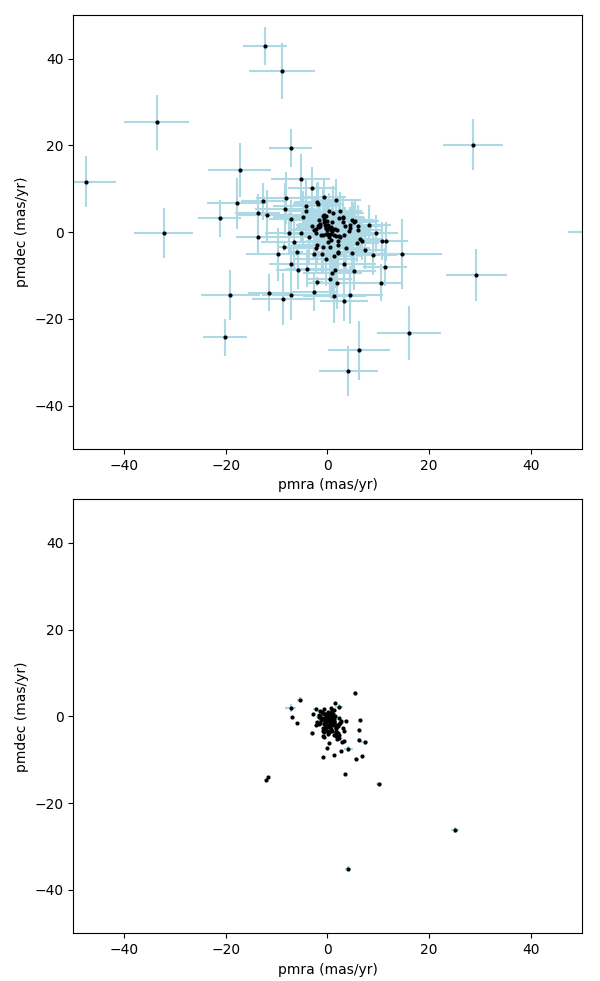
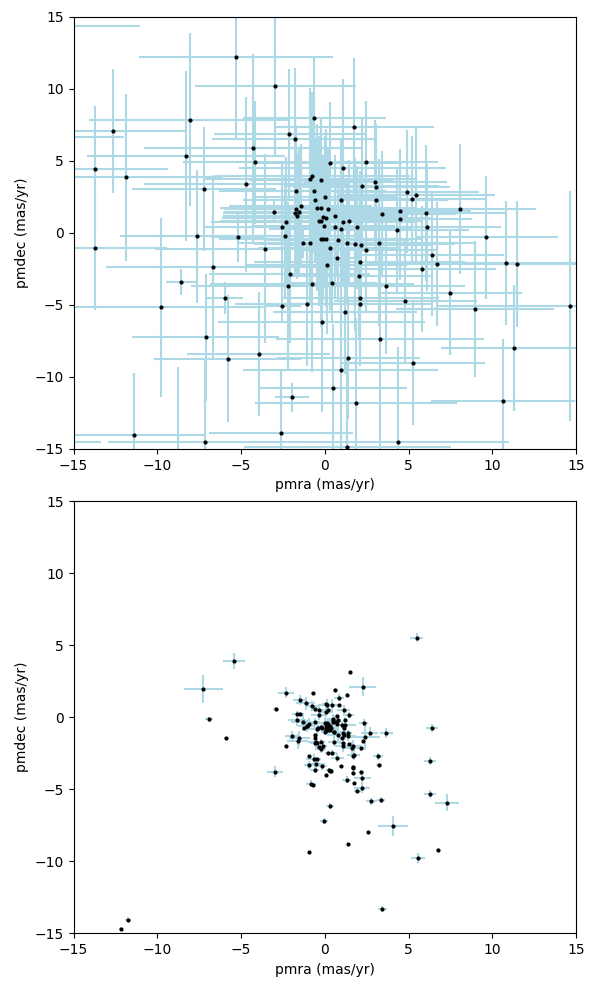
Corrections

diff --git a/article.tex b/article.tex
@@ -36,18 +36,19 @@ Over 1200 open clusters have been identified within the Milky Way, but it is tho
 With the new release of data from Gaia, we can study open clusters with more precision than ever before. This data includes positions in the sky, proper motions, parallaxes, and magnitudes in three different photometric filters for over 1 billion stars.
 
 Using the data from the UCAC4 catalogue, Sampedro et al. reported the existence of 1876 open clusters, using three different membership methods \cite{sampedro}. With the release of the Gaia DR2 catalogue, which contains more precise astrometric data, it is now possible to find and verify the existence of clusters more accurately.
-There have already been attempts to identify open clusters using the Gaia DR2 catalogue, for instance, in the study of Cantat-Gaudin et al., 1269 clusters were identified with the new data \cite{cantat-gaudin}. Our first goal will be to crossmatch the data from both studies to find the clusters that haven't already been verified.
+There have already been attempts to identify open clusters using the Gaia DR2 catalogue, for instance, in the study of Cantat-Gaudin et al., 1229 clusters were identified with the new data \cite{cantat-gaudin}.
 
+As a first step, we will crossmatch the data from both studies to find the clusters that haven't already been verified. We will then use Gaia's data to find some cases from the list which are clearly clusters. Finally, we will estimate the age and total interstellar extinction of these clusters.
 
 \section{The Gaia DR2 catalogue}
-The second release of data from Gaia, in the form of the Gaia DR2 catalogue, introduces high-precision measurements of various astrometry parameters, like proper motions and parallaxes, as well as photometric information for a total of $1 692 919 135$ sources \cite{gaiadr2}. The catalogue contains a 5-parameter astrometric solution for over 1.3 billion stars, which include the position in the sky given by the right ascension and declination, the proper motion and the parallax. For the rest of the stars, which are the very faint ones ($G > 21$), a 2-parameter astrometric solution is given instead, with only the positions in the sky.
+The second release of data from Gaia, in the form of the Gaia DR2 catalogue, introduces high-precision measurements of various astrometry parameters, like proper motions and parallaxes, as well as photometric information for about 1.7 billion sources \cite{gaiadr2}. The catalogue contains a 5-parameter astrometric solution for over 1.3 billion stars, which include the position in the sky given by the right ascension and declination, the proper motion and the parallax. For the rest of the stars, which are the very faint ones ($G > 21$), a 2-parameter astrometric solution is given instead, with only the positions in the sky.
 
 For bright stars ($G < 15$) the uncertainty in the positions and parallax is about $0.02-0.04\ \si{mas}$, and the uncertainty in the proper motions is about $0.07\ \si{mas.yr^{-1}}$. We will only be working with stars of at most $G = 17$, for which the uncertainty in the positions and parallax is of $0.1\ \si{mas}$ and of $0.2\ \si{mas.yr^{-1}}$ in the proper motions. Figure \ref{ppmxl_vs_gaiadr2} illustrates the improvement in precision of the astrometric parameters, by comparing the proper motions of a well known cluster with the data from the PPMXL catalogue \cite{ppmxl} and Gaia DR2.
 
 \begin{figure}[h!]
 \centering
 \includegraphics[scale=0.45]{ppmxl_vs_gaia_motions}
-\caption{Comparison of the data from PPMXL and Gaia DR2 for the proper motions of the cluster Ivanov 2 \cite{ivanov}.}
+\caption{Comparison of the data from PPMXL and Gaia DR2 for the proper motions of the cluster Ivanov 2 \cite{ivanov}. We can see that the proper motions also look more compact with Gaia's data, confirming that it is in fact an open cluster.}
 \label{ppmxl_vs_gaiadr2}
 \end{figure}
 
@@ -55,9 +56,9 @@ The catalogue also lists valuable information on the photometry of most of its s
 
 \section{Identifying open clusters}
 
-As a first measure to reduce the number of clusters that need to be verified, we will only check the clusters whose name is not present in the data from both studies. By applying said filter, we end up with a list of 890 clusters, slightly more than expected, due mainly to naming inconsistencies and possibly to one study having found some clusters that the other has not.
+As a first measure to reduce the number of clusters that need to be verified, we will only check the clusters whose name is not present in the data from both studies. By applying said filter, we end up with a list of 890 clusters, which more than the 647 we expected, due mainly to naming inconsistencies and possibly to one study having found some clusters that the other has not. However, our main focus will be the 647 clusters that Sampedro found with the less precise data from UCAC4.
 
-For each of these 890 clusters, we compute the mean right ascension $\alpha$ and declination $\delta$, which we will use as the center point of a circle with radius $\dfrac{\max(D) - \min(D)}{2}$ where $D$ is the set of declinations for all the stars of each cluster. Then, we query the data from the Gaia DR2 catalogue for the region encompassed by this circle. We get stars with a magnitude $G < 17$, since the data from the UCAC4 catalogue does not show stars fainter than $G = 17$. This gives us the data for all the stars in the queried region, so we crossmatch this data with the data from the original study to leave only the stars that are listed in Sampedro's study as being part of the cluster. To filter out the repeated cases due to naming inconsistencies, the center positions of the already verified clusters are also added in the position plots.
+For each of these 890 clusters, we compute the mean right ascension $\alpha$ and declination $\delta$, which we will use as the center point of a circle with radius $\dfrac{\max(\delta) - \min(\delta)}{2}$, where we consider the set of declinations of the stars in each cluster. Then, we query the data from the Gaia DR2 catalogue for the region encompassed by this circle. We get stars with a magnitude $G < 17$, since the data from the UCAC4 catalogue does not show stars fainter than $G = 17$. This gives us the data for all the stars in the queried region, so we crossmatch this data with the data from the original study to leave only the stars that are listed in Sampedro's study as being part of the cluster.
 
 \begin{figure*}
 \centering
@@ -66,12 +67,15 @@ For each of these 890 clusters, we compute the mean right ascension $\alpha$ and
 \label{crossmatched_data}
 \end{figure*}
 
-Figure \ref{crossmatched_data} shows one example of the plots that were made for each of the clusters, for one of the cases that are confirmed to be a cluster and that will be studied in the next section to determine its age and interstellar extinction. Note that, in this case, the proper motion space is pretty compact, and there is a clear straight line in the parallax versus magnitude plot, showing that the stars are moving together and are at the same distance. In the color-magnitude diagram, we can see that some stars have already left the main sequence. We will study this in more detail in the following section.
+Figure \ref{crossmatched_data} shows one example of the plots that were made for each of the clusters, for one of the cases that are confirmed to be a cluster and that will be studied in the next section. Note that, in this case, the proper motion space is pretty compact, showing that the stars are moving together, and there is a clear straight line in the parallax versus magnitude plot, showing that the stars are at the same distance. However, it is interesting to note that NGC 2126 does not look like a cluster when observed on the sky. In the color-magnitude diagram, we can see that some stars have already left the main sequence. We will study this in more detail in the following section.
 
 
-\section{Determining the age and interstellar extinction of the cluster}
-In this section we discuss the procedure followed to determine an approximation of the age and interstellar extinction of some clusters. We try this method for a total of 14 clusters, some of which are taken from the list of verified clusters in the study of Cantat-Gaudin, and the rest are cases from the study of Sampedro which we have verified in the previous section. The complete list of tested clusters can be found in Table \ref{tab:clusters}, along with some parameters.
-%TODO comment on the method used to get the members of the cluster
+To filter out the repeated cases due to name inconsistencies, the cluster positions from the study of Cantat-Gaudin were also added to the plots, so in the case of a repeated cluster, we would see it near the center in the position plot, which corresponds to the first plot as shown in Figure \ref{crossmatched_data}.
+
+After examining the plots for all 890 clusters, excluding repetitions, we found that only 14 of them were really compact in proper motion, leading us to believe that the rest of them probably are not actually clusters. These clusters are studied further in the next section.
+
+\section{Estimating the age and interstellar extinction of the cluster}
+In this section we discuss the procedure followed to estimate the age and interstellar extinction of some clusters. We applied this method to a total of 14 clusters, some of which are taken from the list of verified clusters in the study of Cantat-Gaudin, and the rest are cases from the study of Sampedro which we have verified in the previous section. The complete list of investigated clusters is given in Table \ref{tab:clusters}, along with some parameters. To obtain the list of probable members, the UPMASK classification method \cite{cantat-gaudin} was applied.
 Note that a lower parallax means a greater distance.
 
 \begin{table}[h!]
@@ -108,7 +112,7 @@ Ruprecth 8 & $(105.41, -13.56)$ & $0.4278$ & $138$ \\
 Stock 6 & $(35.93, 63.79)$ & $0.9536$ & $144$ \\
 \hline
 \end{tabular}
-\caption{List of clusters that have been studied, including their mean position (given in ($\alpha$, $\delta$)) and mean parallax, computed using the data from Gaia DR2, and the number of member stars of the cluster.} %TODO mention method name
+\caption{List of clusters that have been studied, including their mean position (given in ($\alpha$, $\delta$)) and mean parallax, computed using the data from Gaia DR2, and the number of member stars of the cluster.}
 \label{tab:clusters}
 \end{table}
 
@@ -138,9 +142,9 @@ Then, using this relation in the expression $m - M = -2.5 \log_{10} \left( \frac
 \end{equation}
 where $d$ is in parsecs. We can use equation \ref{distance-modulus} with the data from Gaia, since the relation between the parallax $p$ given in arcseconds and the distance $d$ given in parsecs is just $d = p^{-1}$.
 
-Given that the stars in an open cluster are relatively close together, we shift every star in the plot by the distance modulus of the mean parallax of the cluster. We chose this approach instead of using shifting each star by its individual distance modulus because for more distant stars the error in the parallax is higher, so there might be a lot of discrepancy between the parallaxes of some of the stars in the cluster and the CMD would be less clear. Another option would have been to treat the distance modulus as a third parameter to estimate via isochrone fitting, which would also avoid this problem but would make the process harder.
+Given that the stars in an open cluster are relatively close together, we shift every star in the plot by the distance modulus of the mean parallax of the cluster. We chose this approach instead of using shifting each star by its individual distance modulus because for more distant stars the error in the parallax is higher, so there might be a lot of discrepancy between the parallaxes of some of the stars in the cluster and the CMD would be less clear. Another option would have been to treat the distance modulus as a third free parameter to estimate via isochrone fitting, which would also avoid this problem but would make the process harder.
 
-An isochrone is the line that would be drawn in a CMD if we varied the mass of the star at a fixed age. Since the stars in an open cluster have the same age, we can find an isochrone that fits the CMD of the stars in the cluster to determine its age. The isochrones used are from PARSEC \cite{parsec}, with the photometric system from Gaia DR2, and including the interstellar extinction $A_V$ on a star-to-star basis \cite{girardi}. The metallicity value used for the isochrones is $Z = 0.0152$. An example of the result of fitting an isochrone to the cluster data can be seen in Figure \ref{nice-isochrone}.
+An isochrone is the line that would be drawn in a CMD if we varied the mass of the star at a fixed age. Since the stars in an open cluster have the same age, we can find an isochrone that fits the CMD of the stars in the cluster to determine its age. The isochrones used are from PARSEC \cite{parsec}, with the photometric system from Gaia DR2, and including the interstellar extinction $A_V$ on a star-to-star basis \cite{girardi}. The metallicity of the stars, which measures the abundance of heavy elements, is also included in the isochrones used, with a value of $Z = 0.0152$, which is the metallicity of the Sun. An example of the result of fitting an isochrone to the cluster data can be seen in Figure \ref{nice-isochrone}.
 
 \begin{figure}[h!]
 \centering
@@ -189,14 +193,14 @@ Stock 6 & $[0.45, 0.63]$ & $[1.5, 1.6]$ \\
 \label{tab:fitting-results}
 \end{table}
 
-\section{Problems when fitting isochrones}
+\section{Issues when fitting isochrones}
 \subsection{Unresolved binary stars}
 Many stellar systems are binary stars, systems formed by two stars orbiting each other. If they are distant, some these systems may be unresolved and seen as a single object. In a CMD, unresolved binary stars would appear as a secondary line in the main sequence which is brighter than the rest. A clear example of this can be seen in Figure \ref{nice-isochrone}. This can make the main sequence line in the CMD appear wider than it actually is, and can be a problem when fitting isochrones.
 
 To avoid this problem, when we find a wide main sequence line, we try to fit the isochrone near the less luminous stars, which should be single star systems.
 
 \subsection{Differential extinction}
-In this work, the reddening due to the interstellar extinction had a fixed value and was included in the isochrones used to estimate the parameters of the clusters. However, in some cases, like for instance Stock 6, the extinction is not the same for all stars in the cluster. In the case of Stock 6, more distant stars appeared to have significantly more extinction, and this makes the stars appear more scattered in the CMD, making the fitting harder. TO avoid this problem, we would have to estimate the extinction for each star individually, and apply the corrections on each of the stars, instead of applying a global extinction for all the stars in the cluster.
+In this work, the reddening due to the interstellar extinction had a fixed value and was included in the isochrones used to estimate the parameters of the clusters. However, in some cases, like for instance Stock 6, the extinction is not the same for all stars in the cluster. In the case of Stock 6, more distant stars appeared to have significantly more extinction, and this makes the stars appear more scattered in the CMD, making the fitting harder. To avoid this problem, we would have to estimate the extinction for each star individually, and apply the corrections on each of the stars, instead of applying a global extinction for all the stars in the cluster.
 
 \subsection{Blue stragglers}
 Blue stragglers are stars in open clusters that appear to be brighter and bluer than the stars at the turnoff point in the CMD. They can make the turnoff point unclear, especially if we also have other effects which make the plots less clear, like the ones discussed previously. In Figure \ref{blue-stragglers} we can see some stars which are likely to be blue stragglers, and add uncertainty to the location of the turnoff point.

diff --git a/plot_ppmxl_vs_gaia.py b/plot_ppmxl_vs_gaia.py
@@ -58,8 +58,8 @@ def plot_motions(ppxml_data, gaia_data):
                  linestyle='', color='lightblue', marker='', zorder=0)
     plt.xlabel('pmra (mas/yr)')
     plt.ylabel('pmdec (mas/yr)')
-    plt.xlim(-50, 50)
-    plt.ylim(-50, 50)
+    plt.xlim(-15, 15)
+    plt.ylim(-15, 15)
 
     # Gaia DR2
     plt.subplot(212)
@@ -69,8 +69,8 @@ def plot_motions(ppxml_data, gaia_data):
                  linestyle='', color='lightblue', marker='', zorder=0)
     plt.xlabel('pmra (mas/yr)')
     plt.ylabel('pmdec (mas/yr)')
-    plt.xlim(-50, 50)
-    plt.ylim(-50, 50)
+    plt.xlim(-15, 15)
+    plt.ylim(-15, 15)
 
     plt.tight_layout()
 
@@ -80,7 +80,7 @@ def plot_motions(ppxml_data, gaia_data):
 
 def main():
     ppxml_data, gaia_data = load_data()
-    plot_positions(ppxml_data, gaia_data)
+    #  plot_positions(ppxml_data, gaia_data)
     plot_motions(ppxml_data, gaia_data)
 
 
